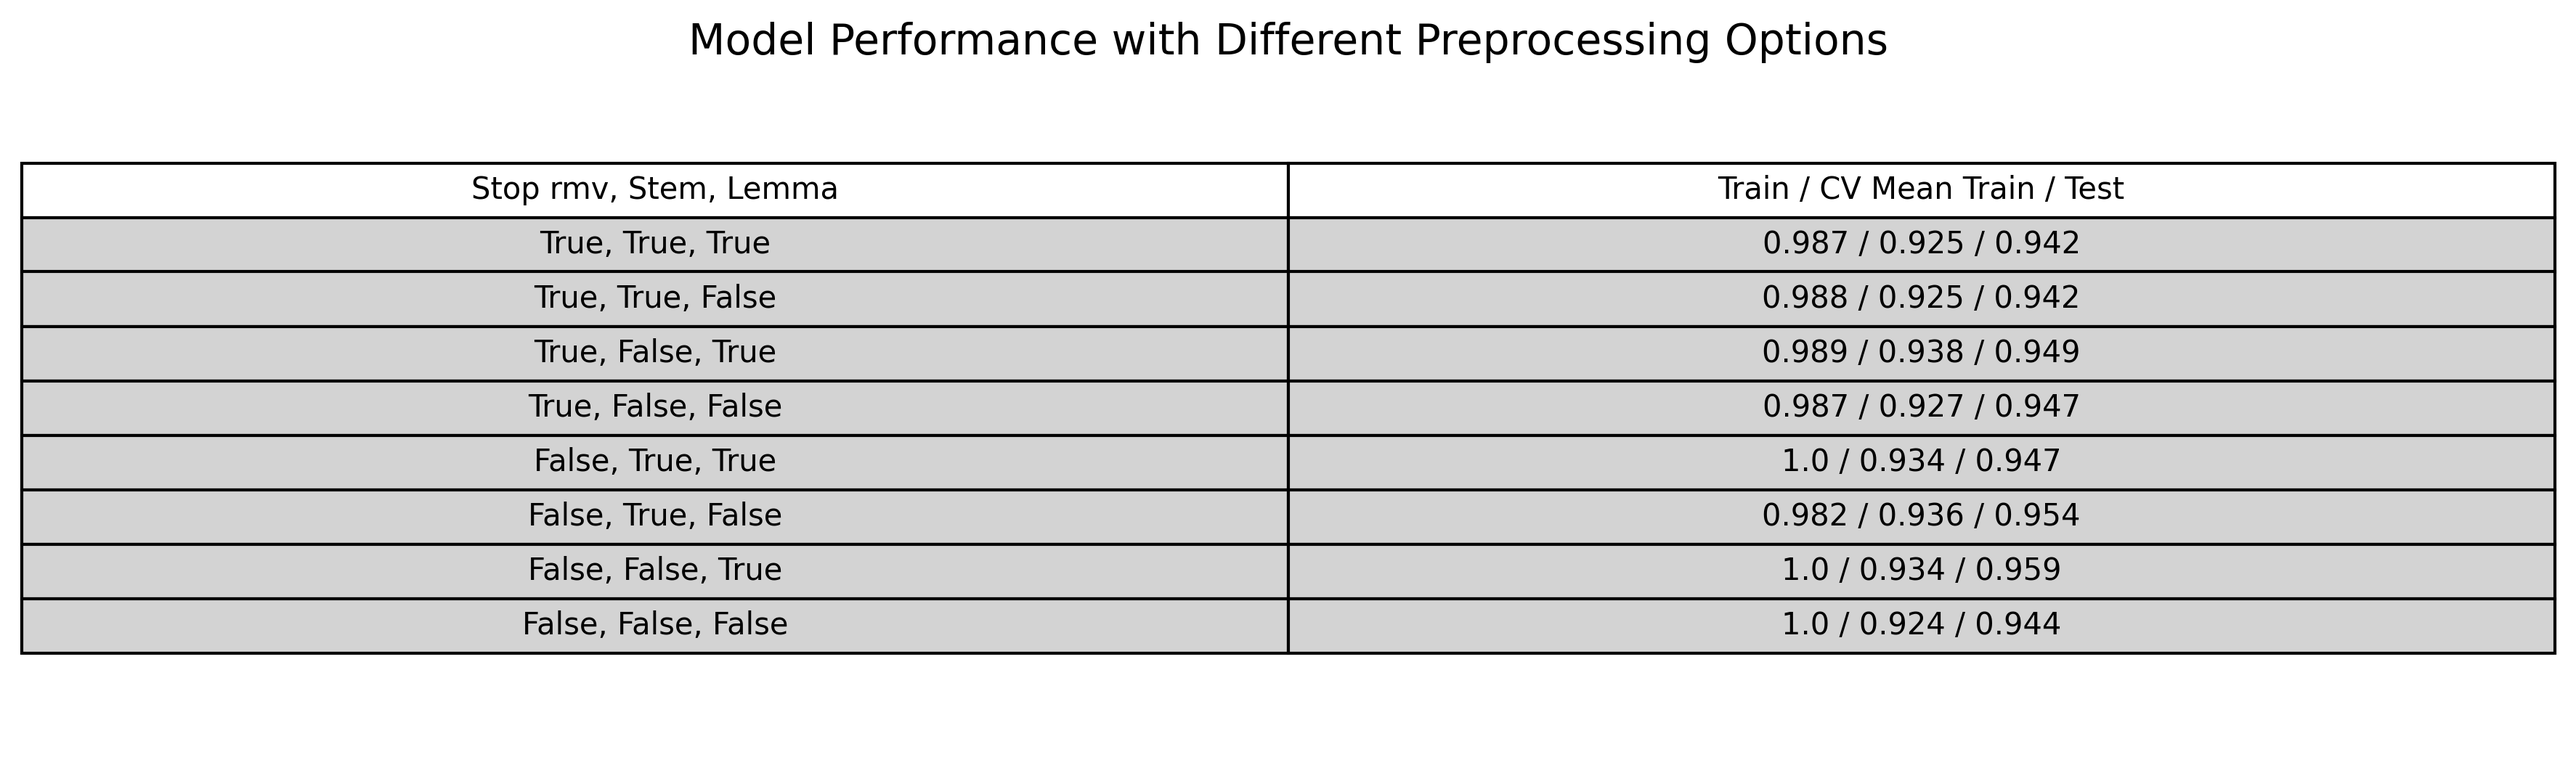
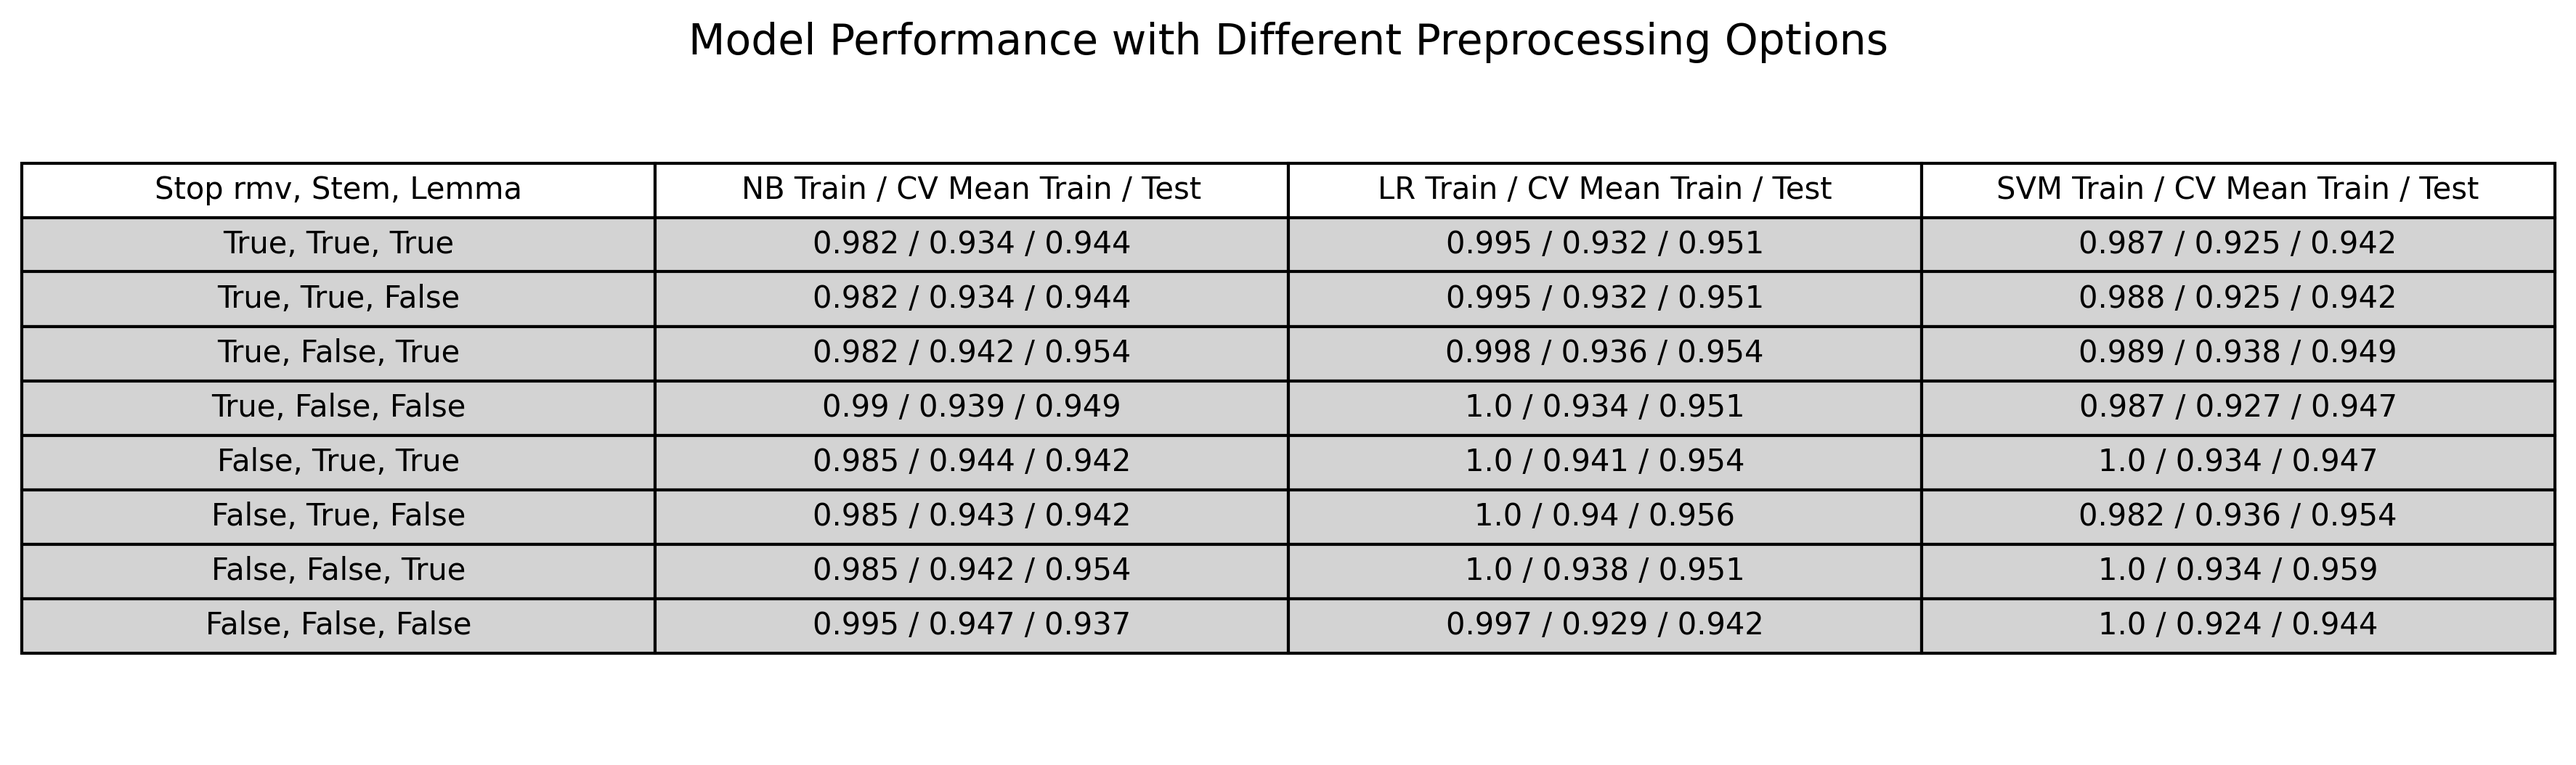
final submission

diff --git a/programming-1/a1-answers.tex b/programming-1/a1-answers.tex
@@ -24,7 +24,7 @@
 % problem description
 % s it possible to distinguish real from fake facts about animals using linear classifiers?
 % does the choice of the linear classifier matter?
-In this assignment, the use of different linear classifiers as well as the impact of different choices regarding preprocessing, feature extraction and hyperparameters was investigated based on a toy experiment. The task was to classify short statements about animals whether it is a true or an imaginary one. The primary research question was to find out whether linear classifiers are suitable for such tasks and which effect the choice of a classifier has.
+In this assignment, the use of different linear classifiers as well as the impact of different choices regarding preprocessing and hyperparameters was investigated based on a toy experiment. The task was to classify short statements about animals whether it is a true or an imaginary one. The primary research question was to find out whether linear classifiers are suitable for such tasks and which effect the choice of a classifier has.
 
 
 \section{Methodology}
@@ -37,7 +37,7 @@ In this assignment, the use of different linear classifiers as well as the impac
 % which feature extraction mechanisms did I choose
 % what classification models have been used
 % what parameters have been chosen with CV
-The experiments used data generated by ChatGPT by providing clear guidelines and examples to maintain quality. 230 statements were obtained for 23 animals (10 facts and fakes each) and the combination with additional data from students resulted in 1030 statements for each category. For preprocessing, the data was split into individual tokens and then optionally lemmatization and porter stemming were applied and the stop words were removed. For feature extraction, the data was split into an 80/20 train/test split and processed using a count vectorizer with unigrams. Classification was performed using Naive Bayes (NB),Logistic Regression (LR) and Linear Support Vector Machines (SVM). For all preprocessing options, a 5-fold cross-validation optimized the regularization parameter $C$ for LR and SVM and the smoothing parameter $\alpha$ for NB. The LR solver was "Saga" with a maximum number of 5000 iterations. After that another 5-fold was performed finding the best model for each combination of preprocessing options. The best models was then evaluated on the test set.
+The experimental data was generated with ChatGPT by providing clear guidelines and examples. 230 statements were obtained for 23 animals (10 facts and fakes each) and the combination with additional data from students resulted in 1030 statements for each category. For preprocessing, the data was split into individual tokens and then optionally lemmatization and porter stemming were applied and the stop words were removed. For feature extraction, the data was split into an 80/20 train/test split and processed using a count vectorizer with unigrams. Classification was performed using Naive Bayes (NB), Logistic Regression (LR) and Linear Support Vector Machines (SVM). For all preprocessing options, a 5-fold cross-validation (cv) optimized the regularization parameter $C$ for LR (ranged from 0.1 to 5) and SVM (ranged from 0.1 to 100) and the smoothing parameter $\alpha$ for NB (ranged from 0.1 to 2). The LR solver was "Saga" with a maximum number of 5000 iterations. A further 5-fold cv was then performed to find the best preprocessing options for each model. 
 
 \section{Results}
 % report on the performance in terms of accuracy
@@ -49,14 +49,16 @@ The experiments used data generated by ChatGPT by providing clear guidelines and
 
 % general observations
 
+The performance range between the best and worst models across different preprocessing options was very minimal. Notably, the NB model with the poorest cv training score of 0.934 outperformed on the test set with a score of 0.944, compared to the NB model with the highest cv train score (0.947) but a test score of 0.937. The latter achieved the highest cv train score among all models, yet the lowest test score. For both LR and SVM models, the least effective results were observed when no preprocessing was applied. Interestingly, the NB model exhibited its highest performance with zero preprocessing. Considering the test set performance, the LR model stood out with the highest score of 0.954, closely followed by the SVM with 0.949. In terms of sensitivity to preprocessing options, SVM showed the least variability, with a small 0.005 range between its best and worst model performance. In contrast, the LR model had a more significant range of 0.012. The top-performing models for LR and SVM used lemmatization. Furthermore, SVM benefited from stemming, while the LR model achieved better results with the removal of stop words.
+
 
 \section{Discussion}
 % speculate on the successes and failures of the models.
 
 
 % answer research questions
-% it is possible to classify
-% choice of linear classifier matters 
+% are linear classifiers for such a task?
+% does the choice of linear classifier matter? 
 % fun facts about missclassifications 
 % interesting facts about data (why could it perform so good)
 
@@ -65,13 +67,10 @@ The experiments used data generated by ChatGPT by providing clear guidelines and
 % as it was generated with ChatGPT iteratively, facts were based on the facts before, which probably made them even more similar
 
 % think about how much you can generalize the conclusions of your experiments to the overall problem of separating real vs. fake facts in general. What assumptions have we made that are reasonable or not reasonable?
-not general. The strongest assumption is that the type of language/words used indicates wether it is a fact or not. This might be true for very easy cases, but if facts would sound more realistic, then the model does not work anymore. Also, it does not take into account the context of the animal, which also is a strong assumption. In the case where the made-up facts are actually very creative and non-sense like, while the facts are more neutral scientifc ones, then these assumptions actually work out reasonable and make the model perform well.
+The strong results show that linear classifiers are suitable for such use cases. LR showed the strongest performance and also the greatest sensitivity to preprocessing, which may be due to its reliance on probabilistic estimates. SVM showed robustness regardless of preprocessing, which may be due to its margin-based decision boundary that could effectively capture the differences between real and fake statements. The differences in NB performance between train and test set could be due to the assumption of feature independence, especially when the fake statements have individual features that are not present in the training dataset. Although the results are promising, one must be cautious in interpreting them, especially due to the limited dataset. Since the data is from GPT-3.5, the inherent structure and patterns may have helped the classifiers. The underlying assumption of classifying between fact and fake based on language cannot be generalized. However, in the cases where the invented facts use a completely different language (e.g. dancing, Olympics), while the facts are rather neutral scientific facts, this assumption is quite plausible. Moreover, the link between animal and fact was not considered.
+
 
 \section{Conclusion}
-gave some good hints on the interplay between choosing the right pre-processing, feature extraction and classification models for such a task. Generally one should first conduct some data analysis to get a good understanding of the data which can be used as prior knowledge to make some model decisions upfront. This task however could already show how strong simple mechanisms and linear classification already work on data sets like this.
-
-% References section
-\bibliographystyle{plain}
-\bibliography{references}
+We observed how strong linear classification model work on simple data. However, even if the assumptions were reasonable here, the generalization to other data is very limited. Future work should dig deeper into the nuances of the models and account for data variations.
 
 \end{document}

diff --git a/programming-1/a1.py b/programming-1/a1.py
@@ -77,12 +77,12 @@ def classification(X_train, y_train, classifier, cv=5):
     elif classifier == 'logistic_regression':
         clf = LogisticRegression(solver='saga', max_iter=5000)
         param_grid = {
-            'C': [0.1, 0.5, 1, 5], #smoothing
+            'C': [0.1, 0.5, 1, 5], # regularization: smaller c --> stronger regularization
         }
     elif classifier == 'naive_bayes':
         clf = MultinomialNB(force_alpha=True)
         param_grid = {
-            'alpha': [0.1, 0.5, 1, 2]
+            'alpha': [0.1, 0.5, 1, 2] #smoothing
         }
     
     # apply grid search with cross-validation
@@ -100,8 +100,6 @@ def plot_table(results, title):
     """Plot the results of the preprocessing options."""
 
     df = pd.DataFrame(results)
-
-    # Create a table plot
     fig, ax = plt.subplots(figsize=(10, 4))   
     ax.axis('tight')
     ax.axis('off')
@@ -109,10 +107,9 @@ def plot_table(results, title):
     table.auto_set_font_size(False)
     table.set_fontsize(10)
     table.scale(1.5, 1.5)
-
     plt.title(title, fontsize=14)
     
-    # Export the plot as an image
+    # export the plot as an image
     plt.savefig(f'{title}.png', bbox_inches='tight', dpi=300)
 
 
@@ -132,6 +129,8 @@ if __name__ == '__main__':
 
     # preprocessing options to compare
     preprocessing_options = list(product([True, False], repeat=3))
+
+    # init resuts
     results = []
     best_preprocessing = {
     'svm_best': {'cv_train_score': -1, 'test_score': -1, 'preprocessing_options': None, 'model_params': None},
@@ -174,9 +173,9 @@ if __name__ == '__main__':
         # save all results
         results.append({
             'Stop rmv, Stem, Lemma': ', '.join(str(item) for item in options),
-            'Train / CV Mean Train / Test': f"{nb_train_score} / {nb_cv_train_score} / {nb_test_score}",
-            'Train / CV Mean Train / Test': f"{lr_train_score} / {lr_cv_train_score} / {lr_test_score}",
-            'Train / CV Mean Train / Test': f"{svm_train_score} / {svm_cv_train_score} / {svm_test_score}"
+            'NB Train / CV Mean Train / Test': f"{nb_train_score} / {nb_cv_train_score} / {nb_test_score}",
+            'LR Train / CV Mean Train / Test': f"{lr_train_score} / {lr_cv_train_score} / {lr_test_score}",
+            'SVM Train / CV Mean Train / Test': f"{svm_train_score} / {svm_cv_train_score} / {svm_test_score}"
         })
 
         # save best and worst results
